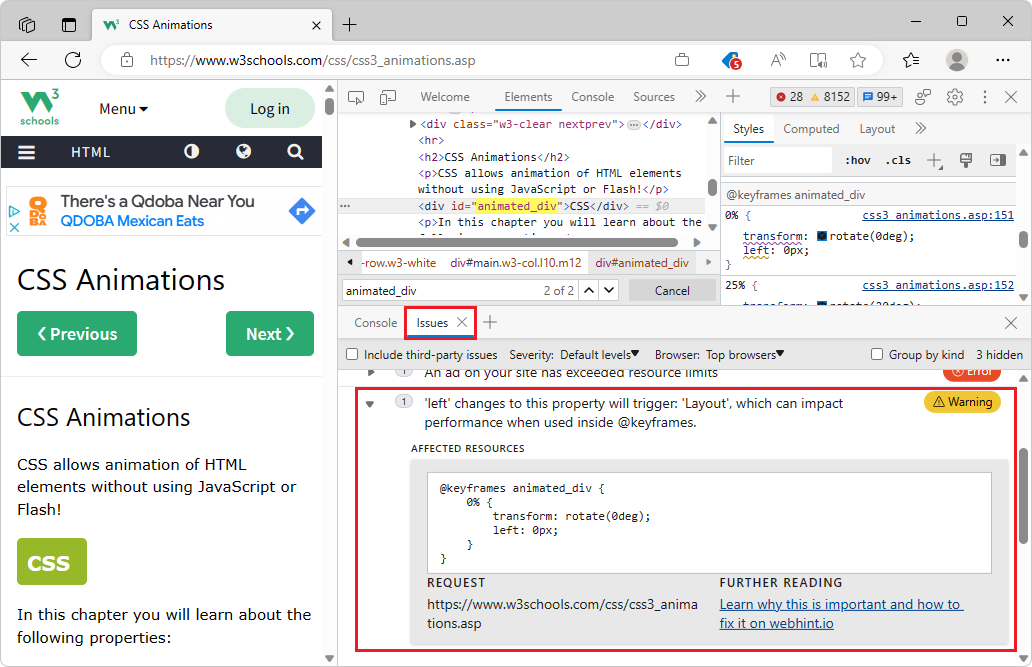
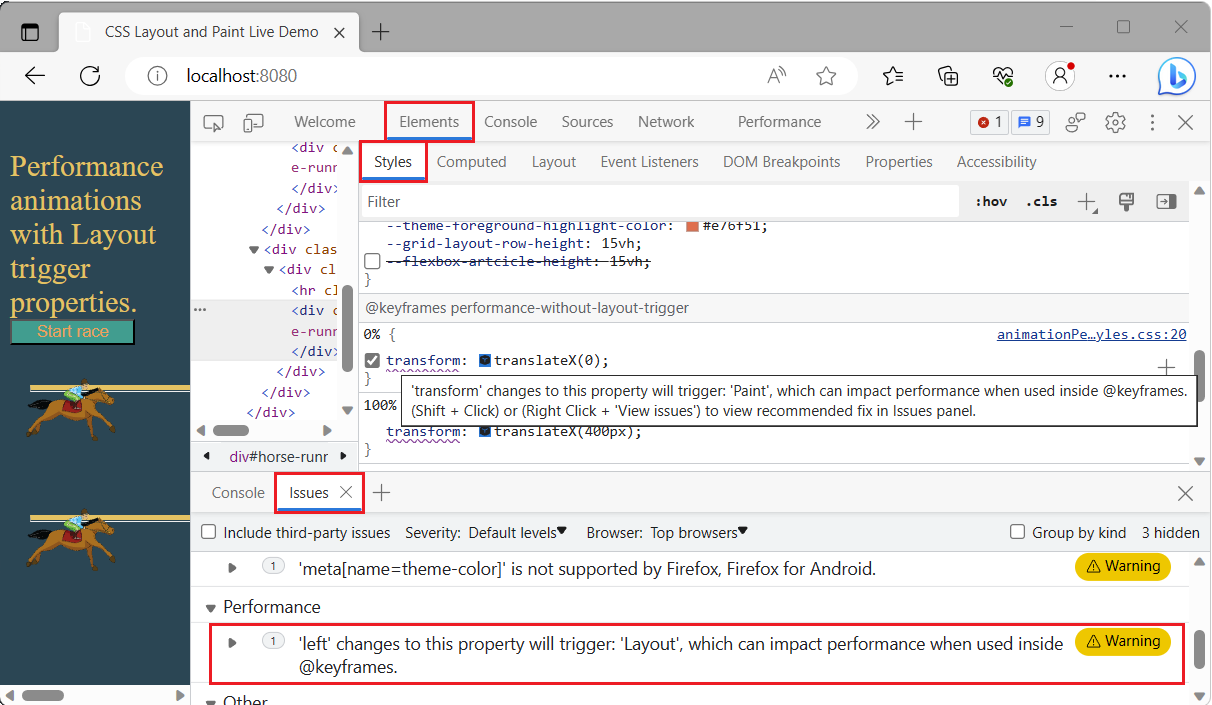
add new Reflow pngs to compare

diff --git a/microsoft-edge/devtools-guide-chromium/whats-new/2023/06/devtools-114.md b/microsoft-edge/devtools-guide-chromium/whats-new/2023/06/devtools-114.md
@@ -53,12 +53,23 @@ Some CSS properties don't trigger a Layout operation, because they run on the co
 In the **Styles** pane in the **Elements** tool, a wavy underline and tooltip has been added on CSS properties that trigger Layout or Paint operations.  To view the issue in a tooltip, hover over the wavy underline:
 
 ![CSS Layout issue in the Styles pane](./devtools-114-images/css-reflow-issue-styles-pane.png)
-<!-- todo: re-create -->
+
+
+<!-- todo: remove old -->
+old png, to remove:
+
+![CSS Layout issue in the Styles pane](./devtools-114-images/css-reflow-issue-styles-pane-old.png)
+<!-- todo: remove old -->
 
 In the **Issues** tool, in the **Performance** category, a new kind of issue is reported, such as "Changes to this property will trigger: 'Layout', which can impact performance when used inside @Keyframes."  When you're using the **Styles** pane, to open the issue in the **Issues** tool, **Shift**+click the wavy underline on such a property, or right-click the wavy underline and then select **View issues**.  The **Issues** tool opens in the Drawer at the bottom of DevTools:
 
-![CSS Layout issue in the Issues tool](./devtools-114-images/css-reflow-issue-issues-tool.png)
-<!-- todo: re-create -->
+![old - CSS Layout issue in the Issues tool](./devtools-114-images/css-reflow-issue-issues-tool.png)
+
+<!-- todo: remove old -->
+old png, to remove:
+
+![old - CSS Layout issue in the Issues tool](./devtools-114-images/css-reflow-issue-issues-tool-old.png)
+<!-- todo: remove old -->
 
 See also:
 * [Minimizing browser reflow | PageSpeed Insights](https://developers.google.com/speed/docs/insights/browser-reflow) - _reflow_ includes Paint, Composite, and Layout operations.
